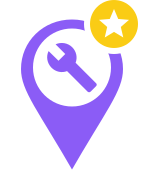
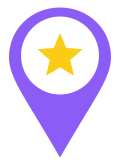
feat: car_wash category + Naver-style favorite markers
New 세차 category (teal, local-car-wash glyph) across the check
constraint (migration 031), types, chips, submit form, markers, and
the judge prompt (approve on evidence bikes can actually use the
wash). Favorite markers redone the Naver way: the star replaces the
category glyph inside the pin, and favorites render as individual
captioned markers outside the cluster so they stay visible with
their names at any zoom.

Changed region(s): [[0.075, 0.0, 0.975, 0.8929], [0.475, 0.9226, 0.525, 0.9524]]

diff --git a/app/(tabs)/index.tsx b/app/(tabs)/index.tsx
@@ -173,13 +173,12 @@ export default function MapScreen() {
     [favoritePlaces],
   );
 
+  // 즐겨찾기는 클러스터에 넣지 않는다 — 줌아웃해도 묶이지 않고 이름 캡션과
+  // 함께 개별 마커로 항상 보인다(네이버 지도식). 뷰포트 목록과 겹치면 제외.
   const basePlaces = gasMode ? [] : (supabasePlaces ?? []);
   const places = useMemo(
-    () =>
-      showFavorites
-        ? [...basePlaces.filter((p) => !favIds.has(p.id)), ...(favoritePlaces ?? [])]
-        : basePlaces,
-    [basePlaces, showFavorites, favIds, favoritePlaces],
+    () => (showFavorites ? basePlaces.filter((p) => !favIds.has(p.id)) : basePlaces),
+    [basePlaces, showFavorites, favIds],
   );
   // 검색된 마커는 줌아웃해도 유지한다 — 기준점(gasSearchPoint)이 바뀔 때만 갱신
   const stations = gasMode ? (gasStations ?? []) : [];
@@ -423,20 +422,16 @@ export default function MapScreen() {
     () =>
       places
         .filter((place) => place.id !== selectedPlaceId)
-        .map((place) => {
-          const fav = showFavorites && favIds.has(place.id);
-          return {
-            identifier: place.id,
-            latitude: place.latitude,
-            longitude: place.longitude,
-            image: fav ? MARKER_IMAGES_FAV[place.category] : MARKER_IMAGES[place.category],
-            // 마커 기본 앵커는 하단 중앙 — 꼬리 끝이 좌표를 찍는다.
-            // 즐겨찾기 변형은 별 뱃지만큼 뷰박스가 넓어 비율대로 키운다.
-            width: fav ? 43 : 36,
-            height: fav ? 54 : 50,
-          };
-        }),
-    [places, selectedPlaceId, showFavorites, favIds]
+        .map((place) => ({
+          identifier: place.id,
+          latitude: place.latitude,
+          longitude: place.longitude,
+          image: MARKER_IMAGES[place.category],
+          // 마커 기본 앵커는 하단 중앙 — 꼬리 끝이 좌표를 찍는다
+          width: 36,
+          height: 50,
+        })),
+    [places, selectedPlaceId]
   );
 
   return (
@@ -493,6 +488,32 @@ export default function MapScreen() {
           />
         )}
 
+        {/* 즐겨찾기 마커 — 클러스터 밖 개별 오버레이라 줌과 무관하게 항상 보이고,
+            이름 캡션이 함께 뜬다. 겹치는 캡션은 SDK가 알아서 숨긴다. */}
+        {showFavorites &&
+          (favoritePlaces ?? [])
+            .filter((p) => p.id !== selectedPlaceId)
+            .map((p) => (
+              <NaverMapMarkerOverlay
+                key={p.id}
+                latitude={p.latitude}
+                longitude={p.longitude}
+                image={MARKER_IMAGES_FAV[p.category]}
+                width={36}
+                height={50}
+                anchor={{ x: 0.5, y: 1 }}
+                zIndex={50}
+                isHideCollidedCaptions
+                caption={{
+                  text: p.name,
+                  textSize: 12,
+                  color: colorScheme === 'dark' ? '#F9FAFB' : '#111827',
+                  haloColor: colorScheme === 'dark' ? '#111827' : '#FFFFFF',
+                }}
+                onTap={() => handleMarkerPress(p)}
+              />
+            ))}
+
         {/* 선택된 장소 강조 — 클러스터 마커 위에 같은 이미지를 크게 얹는다 */}
         {selectedPlace && (
           <NaverMapMarkerOverlay
@@ -503,8 +524,8 @@ export default function MapScreen() {
                 ? MARKER_IMAGES_FAV[selectedPlace.category]
                 : MARKER_IMAGES[selectedPlace.category]
             }
-            width={showFavorites && favIds.has(selectedPlace.id) ? 50 : 42}
-            height={showFavorites && favIds.has(selectedPlace.id) ? 63 : 59}
+            width={42}
+            height={59}
             anchor={{ x: 0.5, y: 1 }}
             zIndex={100}
           />

diff --git a/constants/markerImages.ts b/constants/markerImages.ts
@@ -10,10 +10,11 @@ export const MARKER_IMAGES: Record<PlaceCategory, any> = {
   viewpoint: require('@/assets/images/markers/viewpoint.png'),
   gear_shop: require('@/assets/images/markers/gear_shop.png'),
   camping: require('@/assets/images/markers/camping.png'),
+  car_wash: require('@/assets/images/markers/car_wash.png'),
 };
 
-// 즐겨찾기 표시 켠 상태의 마커 — 같은 핀에 우상단 노란 별 뱃지.
-// 뷰박스가 별만큼 넓어(48x60) 렌더 크기도 그 비율로 키워 그린다.
+// 즐겨찾기 표시 켠 상태의 마커 — 같은 핀에서 카테고리 아이콘 대신 노란 별
+// (네이버 지도식). 뷰박스·렌더 크기는 기본 마커와 동일하다.
 export const MARKER_IMAGES_FAV: Record<PlaceCategory, any> = {
   cafe: require('@/assets/images/markers/cafe_fav.png'),
   restaurant: require('@/assets/images/markers/restaurant_fav.png'),
@@ -23,4 +24,5 @@ export const MARKER_IMAGES_FAV: Record<PlaceCategory, any> = {
   viewpoint: require('@/assets/images/markers/viewpoint_fav.png'),
   gear_shop: require('@/assets/images/markers/gear_shop_fav.png'),
   camping: require('@/assets/images/markers/camping_fav.png'),
+  car_wash: require('@/assets/images/markers/car_wash_fav.png'),
 };

diff --git a/constants/categories.ts b/constants/categories.ts
@@ -14,6 +14,7 @@ export const CATEGORIES: Record<PlaceCategory, CategoryInfo> = {
   viewpoint: { label: '뷰포인트', color: '#EC4899' },
   gear_shop: { label: '용품점', color: '#0EA5E9' },
   camping: { label: '캠핑', color: '#F97316' },
+  car_wash: { label: '세차', color: '#14B8A6' },
 };
 
 export const CATEGORY_LIST = Object.entries(CATEGORIES).map(

diff --git a/components/ui/CategoryIcon.tsx b/components/ui/CategoryIcon.tsx
@@ -16,6 +16,7 @@ const GLYPHS: Record<PlaceCategory, { set: 'mi' | 'mci'; name: string }> = {
   viewpoint: { set: 'mi', name: 'photo-camera' },
   gear_shop: { set: 'mi', name: 'shopping-bag' },
   camping: { set: 'mci', name: 'tent' },
+  car_wash: { set: 'mi', name: 'local-car-wash' },
 };
 
 interface Props {

diff --git a/types/index.ts b/types/index.ts
@@ -6,7 +6,8 @@ export type PlaceCategory =
   | 'repair_shop'
   | 'viewpoint'
   | 'gear_shop'
-  | 'camping';
+  | 'camping'
+  | 'car_wash';
 
 export interface Place {
   id: string;

diff --git a/docs/ARCHITECTURE.md b/docs/ARCHITECTURE.md
@@ -143,7 +143,7 @@ Sentry.wrap(
 
 ### 화면 구성 하이라이트
 
-- **지도 화면(`(tabs)/index.tsx`)** — `NaverMapView` 위에 오버레이를 쌓는다: 클러스터/마커(`PlaceMarker`), 사용자 위치(`UserLocationMarker`+`LocationPulse`). UI 레이어로 `SearchBar`·`CategoryFilter`·즐겨찾기 별 FAB(날씨 FAB 행 우측)·내 위치 버튼·`PlaceBottomSheet`(선택 장소). 카메라 이동(`onCameraChanged`)을 디바운스해 `usePlaces`를 재조회. 별 토글을 켜면 즐겨찾기 장소가 뷰포트·필터와 무관하게 별 뱃지 마커(`markers/*_fav.png`)로 클러스터 목록에 합류한다. 길안내 진입 시 경로 미리보기·옵션 선택은 `/navi` 화면이 맡는다.
+- **지도 화면(`(tabs)/index.tsx`)** — `NaverMapView` 위에 오버레이를 쌓는다: 클러스터/마커(`PlaceMarker`), 사용자 위치(`UserLocationMarker`+`LocationPulse`). UI 레이어로 `SearchBar`·`CategoryFilter`·즐겨찾기 별 FAB(날씨 FAB 행 우측)·내 위치 버튼·`PlaceBottomSheet`(선택 장소). 카메라 이동(`onCameraChanged`)을 디바운스해 `usePlaces`를 재조회. 별 토글을 켜면 즐겨찾기 장소가 뷰포트·필터·클러스터와 무관하게 개별 별 마커(`markers/*_fav.png`, 이름 캡션 포함)로 항상 표시된다. 길안내 진입 시 경로 미리보기·옵션 선택은 `/navi` 화면이 맡는다.
 
 ---
 
@@ -183,7 +183,7 @@ Sentry.wrap(
 
 ### 타입 (`types/index.ts`)
 
-- **`PlaceCategory`** = `cafe` · `restaurant` · `rest_stop` · `gas_station` · `repair_shop` · `viewpoint` · `gear_shop` · `camping` (8종, DB `places_category_check`와 일치)
+- **`PlaceCategory`** = `cafe` · `restaurant` · `rest_stop` · `gas_station` · `repair_shop` · `viewpoint` · `gear_shop` · `camping` · `car_wash` (9종, DB `places_category_check`와 일치)
 - **`Place`** — 좌표(lat/lng)·주소·전화·영업시간·주차정보·사진[]·태그[]·평점·리뷰수·`submittedBy`·`approved`
 - **`RidingCourse`** — 거리(km)·소요(분)·`coordinates [lng,lat][]`·`waypoints: Place[]`·평점
 - **`Review`** — `placeId`·`userId`·`userName`·`avatarUrl`·평점·내용·사진[]

diff --git a/README.md b/README.md
@@ -25,7 +25,7 @@
 ## ✨ 주요 기능
 
 - 🧭 **길안내**: 카카오내비 SDK 이륜차 모드 턴바이턴. 미리보기에서 추천·시간·거리·큰길 4개 옵션의 경로를 교통 혼잡도 색으로 비교하고, 출발지·경유지(최대 5개, 드래그 정렬)·도착지를 그 자리에서 바꿔가며 고릅니다. 출발 전에는 경로의 비 소식과 노면 위험 제보를 경고합니다
-- 🗺 **지도 + POI**: 네이버지도 기반 바이커 장소 탐색 (카페, 맛집, 휴게소, 주유소, 정비소, 뷰포인트, 용품점, 캠핑). 별 토글을 켜면 즐겨찾기가 별 뱃지 마커로 항상 표시됩니다
+- 🗺 **지도 + POI**: 네이버지도 기반 바이커 장소 탐색 (카페, 맛집, 휴게소, 주유소, 정비소, 뷰포인트, 용품점, 캠핑, 세차). 별 토글을 켜면 즐겨찾기가 이름과 함께 별 마커로 항상 표시됩니다
 - 📍 **일반 장소**: 지도의 가게 아이콘이나 이름을 탭하면 등록되지 않은 곳도 바로 카드가 뜨고 길안내와 제보로 이어집니다
 - 🔎 **통합 검색**: 등록 장소와 코스에 더해 일반 장소까지 검색하고, 엔터를 누르면 결과 전체를 지도 + 목록으로 봅니다. 집과 회사를 저장해두면 원터치로 길안내합니다
 - 🌦 **라이딩 날씨**: 기상청 단기예보 기반 라이딩 점수와 시간대별 강수확률, 미세먼지를 제공합니다. 길안내 전에 경로의 비 소식도 경고합니다
